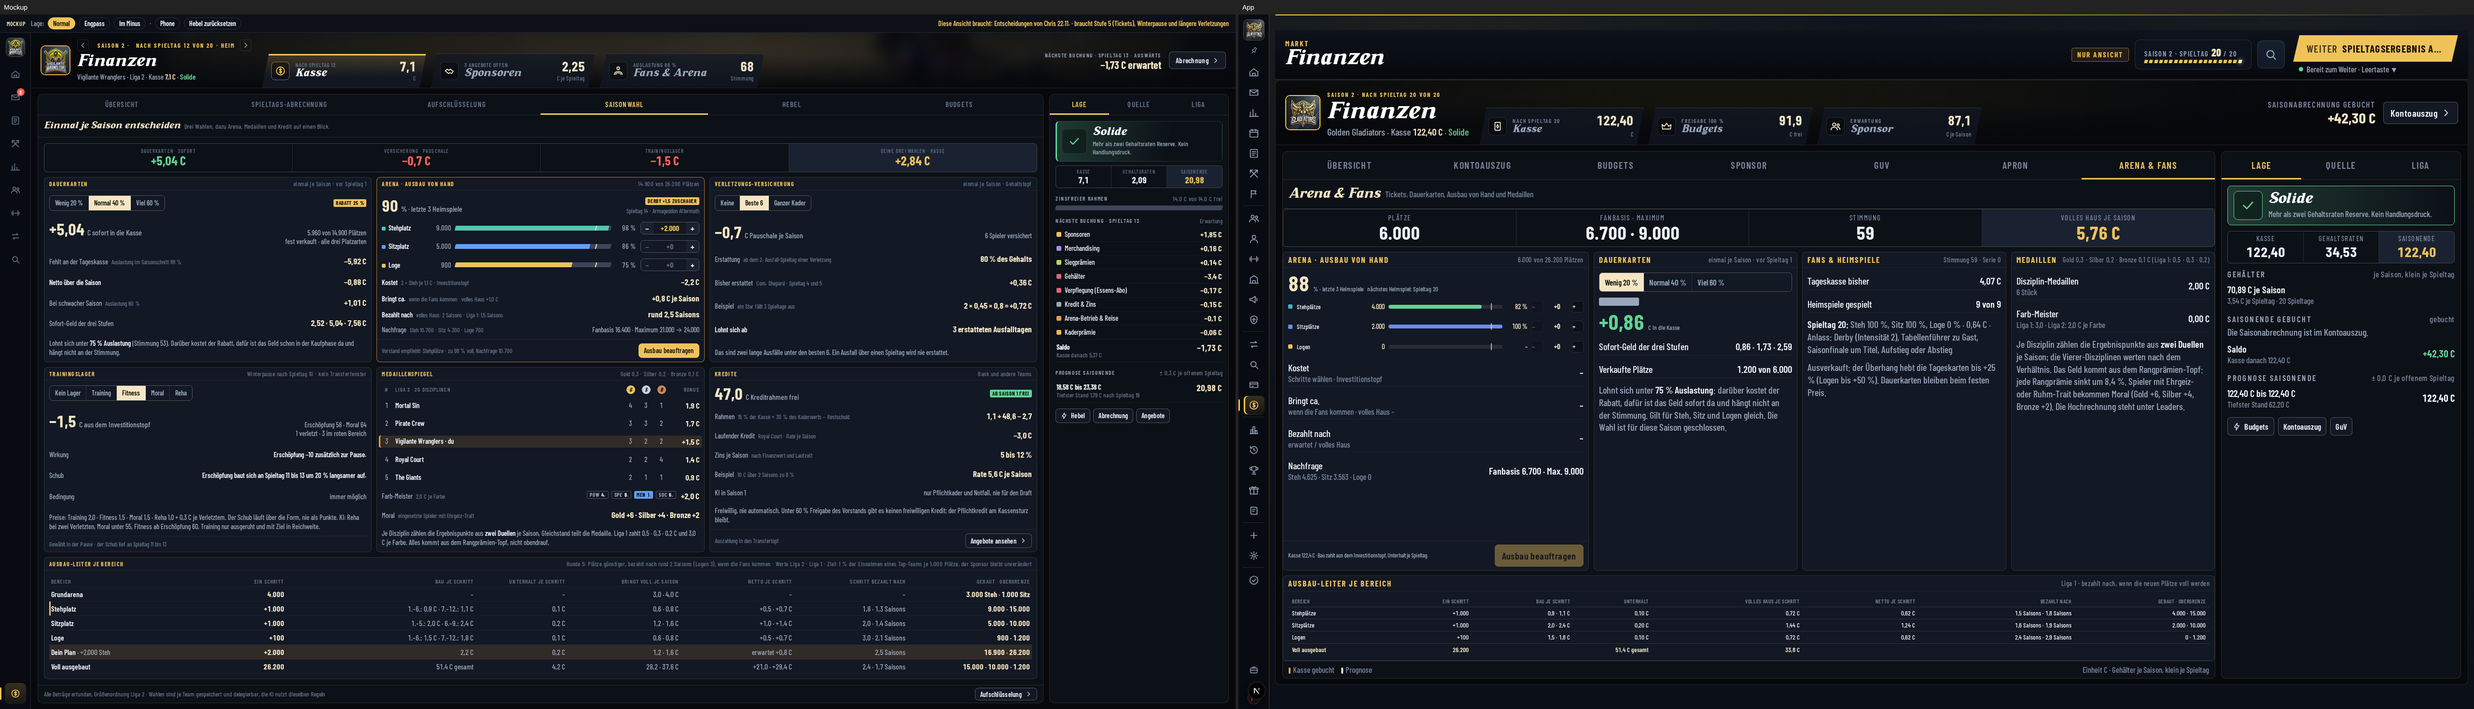
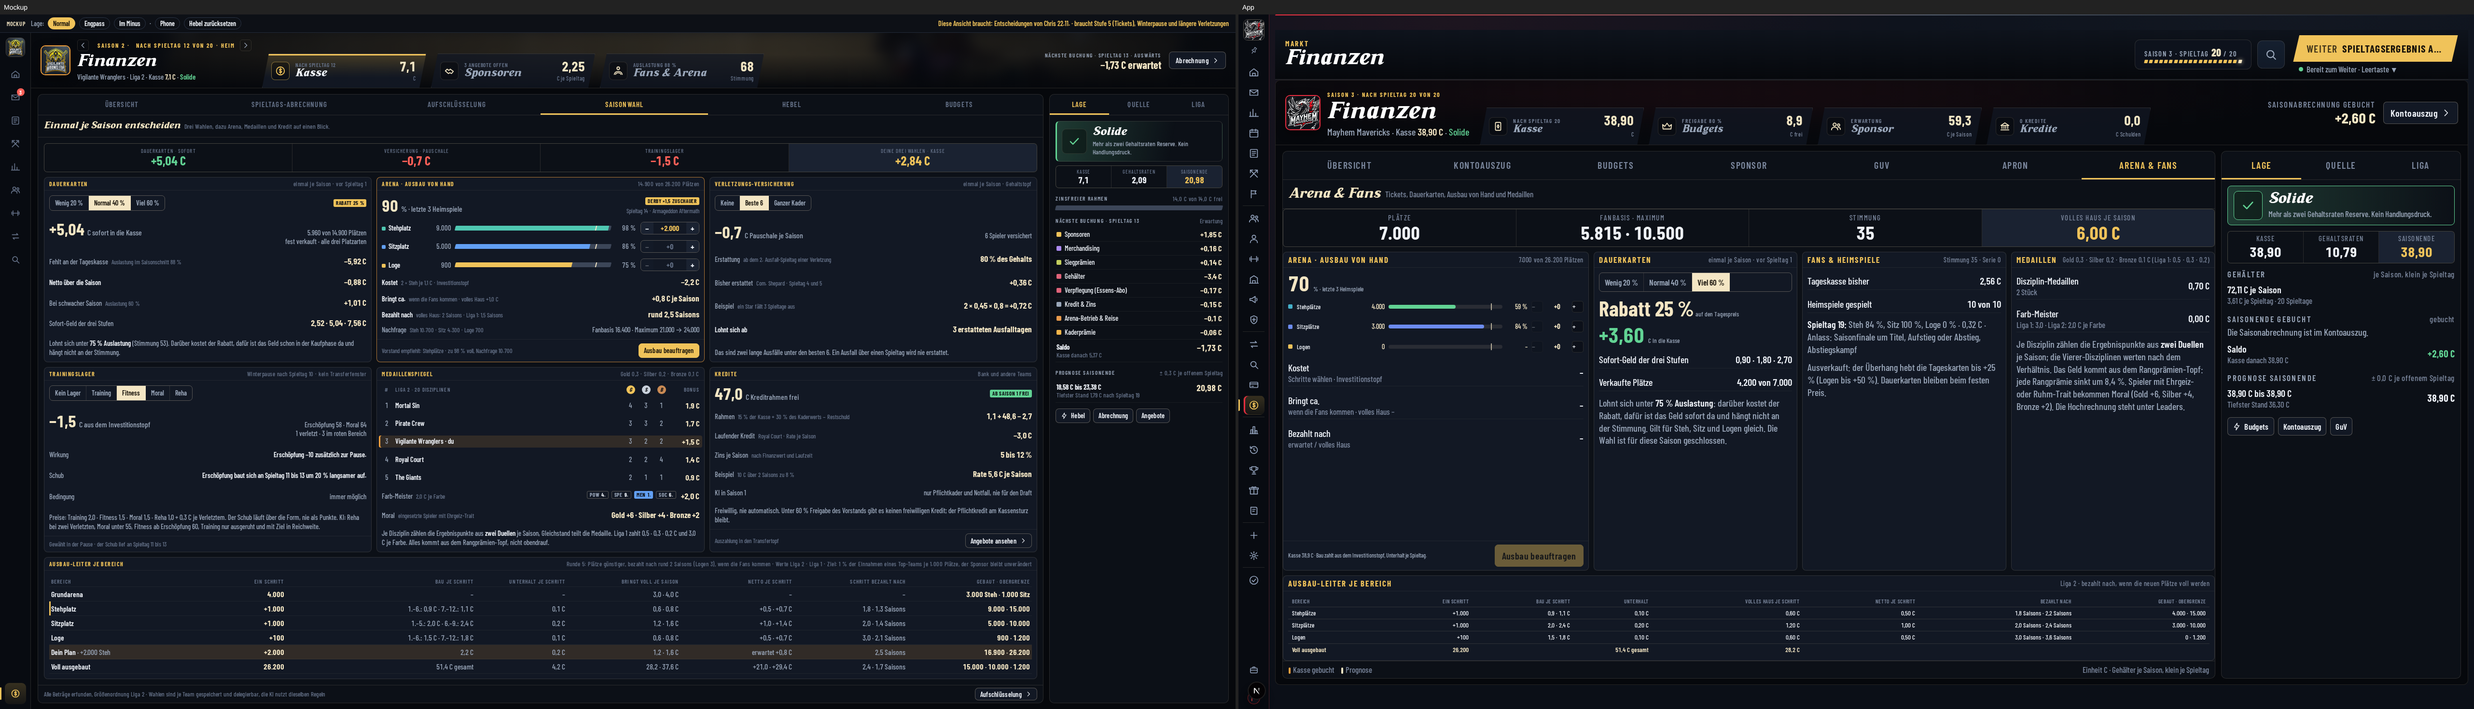
KI baut schneller (6 Schritte, 8 Saisons, 85 %, Vorausnachfrage, Fanbasis-Prognose), Karte Arena-Ausbau ohne abgeschnittene Zeile, Aufnahmen ohne Overlay, Messung 3 Saisons
Claude-Session: https://claude.ai/code/session_01UYLNtXkprKr1XK4c3X2xQq

diff --git a/lib/arena/arena-ki-bewertung.ts b/lib/arena/arena-ki-bewertung.ts
@@ -3,9 +3,10 @@
  * (`bauArenaAus`: Kasse, Obergrenzen, harte Vorstands-Freigabe aus dem Investitionstopf) und nur, wenn sich der Ausbau laut
  * "bringt ca." lohnt.
  *
- *   - nur in Bereichen mit Empfehlung: Schnitt der letzten drei Heimspiele bei 90 % oder mehr (mindestens zwei gespielt);
- *   - so viele Schritte, wie der Ueberhang der Nachfrage fuellt, hoechstens drei je Bereich und Saison;
- *   - nur, wenn "Erwartet" den Bau in hoechstens vier Saisons bezahlt (i.1; vorher sechs);
+ *   - nur in Bereichen mit Empfehlung: Schnitt der letzten drei Heimspiele bei 85 % oder mehr (vorher 90 %) (mindestens zwei gespielt);
+ *   - so viele Schritte, wie der Ueberhang der Nachfrage der NAECHSTEN Saison fuellt (Nachfrage x 1,22), hoechstens sechs je Bereich und Saison
+ *     (23.11. "KI baut schneller", vorher drei);
+ *   - nur, wenn "Erwartet" den Bau in hoechstens acht Saisons bezahlt (vorher vier, davor sechs);
  *   - Logen nur mit Erfolg und grossem Sponsor (Sponsor-Stufe und Tabellenplatz je mindestens die Haelfte);
  *   - gebaut wird nur, was nach der Ruecklage nach Finanzwert (`resolveKiRuecklageFuerTeam`) noch frei ist, wie beim Reha-Bau.
  *
@@ -15,14 +16,17 @@
 import type { GameState } from "@/lib/data/olyDataTypes";
 import { KI_REHA_RUECKLAGE_S1_FAKTOR } from "@/lib/ai/ki-schonung-reha-regeln";
 import { resolveKiRuecklageFuerTeam } from "@/lib/finance/ki-ruecklage";
-import { FANBASIS_WACHSTUM_SAISON, SCHRITT_GROESSE, ausbauVorschau, fanMaximum, maxSchritte, plaetzeNachSchritten, schritteGebaut } from "@/lib/arena/arena-modell";
+import { FANBASIS_WACHSTUM_SAISON, SCHRITT_GROESSE, ausbauVorschau, auslastungFan, fanMaximum, maxSchritte, plaetzeNachSchritten, schritteGebaut } from "@/lib/arena/arena-modell";
 import { arenaAktiv } from "@/lib/arena/arena-regel";
 import { holeArenaStand, istLiga1, letzteDreiSchnitt, ligaTabellenAnteil, sponsorStufen, heimspieleDerSaison } from "@/lib/arena/arena-stand";
 import { ARENA_BEREICHE, type ArenaBereich } from "@/lib/arena/arena-typen";
 
-export const KI_MAX_SCHRITTE_JE_BEREICH_UND_SAISON = 3;
-export const KI_MAX_BEZAHLT_SAISONS = 4;
-export const KI_EMPFEHLUNG_AUSLASTUNG = 0.9;
+/** KI baut schneller (Chris, 23.11.): vorher 3 Schritte je Bereich und Saison, Amortisation hoechstens 4 Saisons, Empfehlung ab 90 %. */
+export const KI_MAX_SCHRITTE_JE_BEREICH_UND_SAISON = 6;
+export const KI_MAX_BEZAHLT_SAISONS = 8;
+export const KI_EMPFEHLUNG_AUSLASTUNG = 0.85;
+/** Die KI baut auf die Nachfrage der naechsten Saison vor (Fanbasis waechst bei vollem Haus um hoechstens 22 %), nicht nur auf die von heute. */
+export const KI_VORAUS_FAKTOR = FANBASIS_WACHSTUM_SAISON;
 
 export type KiArenaEntscheidung = {
   /** Gewuenschte Schritte je Bereich (nur Bereiche mit Empfehlung und Amortisation). */
@@ -56,12 +60,14 @@ export function freiesGeldNachRuecklage(gameState: GameState, teamId: string): n
 }
 
 /**
- * Fanbasis nach dem Ausbau, wie die KI sie erwartet: haengt die Fanbasis am Fan-Maximum, wachsen die Fans nur mit mehr Plaetzen (h.3 "wer am
- * Maximum haengt, muss bauen"); die KI rechnet dann mit einer Saison Wachstum (hoechstens +22 %) bis zum neuen Maximum.
+ * Fanbasis in der naechsten Saison, wie die KI sie erwartet (23.11. "KI baut schneller"): ist das Haus voll (Steh + Sitz im Schnitt der letzten
+ * drei Heimspiele bei 85 % oder mehr), waechst die Fanbasis um hoechstens 22 % je Saison, aber nie ueber das Fan-Maximum der Plaetze. Wer am
+ * Maximum haengt, waechst nur mit mehr Plaetzen (h.3 "wer am Maximum haengt, muss bauen"); wer darunter liegt, braucht die Plaetze fuer das
+ * Wachstum von morgen. Ist das Haus nicht voll, bleibt die Fanbasis, wie sie ist.
  */
-function fanbasisNach(fanbasis: number, vorher: Parameters<typeof fanMaximum>[0], nachher: Parameters<typeof fanMaximum>[0]): number {
-  if (fanbasis < 0.95 * fanMaximum(vorher)) return fanbasis;
-  return Math.min(fanMaximum(nachher), fanbasis * FANBASIS_WACHSTUM_SAISON);
+function fanbasisPrognose(fanbasis: number, plaetze: Parameters<typeof fanMaximum>[0], hausVoll: boolean): number {
+  if (!hausVoll || fanbasis >= fanMaximum(plaetze)) return fanbasis;
+  return Math.min(fanMaximum(plaetze), fanbasis * FANBASIS_WACHSTUM_SAISON);
 }
 
 /** Bewertet den Ausbau fuer EIN Team; ohne zu schreiben. Fuer Tests und Messskripte exportiert. */
@@ -75,6 +81,7 @@ export function bewerteKiArena(gameState: GameState, teamId: string): KiArenaEnt
   const tabelle = ligaTabellenAnteil(gameState, teamId);
   const heim = heimspieleDerSaison(gameState, teamId);
   let frei = freiesGeldNachRuecklage(gameState, teamId);
+  const hausVoll = auslastungFan(stand.plaetze, schnitt.auslastung) >= KI_EMPFEHLUNG_AUSLASTUNG;
   const kandidaten: Array<{ b: ArenaBereich; schritte: number; bezahlt: number }> = [];
   for (const b of ARENA_BEREICHE) {
     if (stand.plaetze[b] <= 0 && b !== "loge") continue;
@@ -89,15 +96,15 @@ export function bewerteKiArena(gameState: GameState, teamId: string): KiArenaEnt
       continue;
     }
     // Ueberhang der Nachfrage in Schritten (mindestens einer, weil der Bereich voll ist); Logen fuellen sich anteilig, dort ein Schritt.
-    const ueberhang = b === "loge" ? 1 : Math.max(1, Math.floor((schnitt.nachfrage[b] - stand.plaetze[b]) / SCHRITT_GROESSE[b]));
-    // Schritte so weit zuruecknehmen, bis sie sich in vier Saisons bezahlen und das freie Geld reicht.
+    const ueberhang = b === "loge" ? 1 : Math.max(1, Math.floor((schnitt.nachfrage[b] * KI_VORAUS_FAKTOR - stand.plaetze[b]) / SCHRITT_GROESSE[b]));
+    // Schritte so weit zuruecknehmen, bis sie sich in acht Saisons bezahlen und das freie Geld reicht.
     for (let n = Math.min(ueberhang, grenze); n >= 1; n -= 1) {
-      const v = ausbauVorschau({ plaetze: stand.plaetze, schritte: { [b]: n }, fanbasis: stand.fanbasis, fanbasisNachher: fanbasisNach(stand.fanbasis, stand.plaetze, plaetzeNachSchritten(stand.plaetze, { [b]: n })), stimmung: stand.stimmung, liga1: istLiga1(gameState, teamId), sponsorStufe: sponsor, tabellenAnteil: tabelle, heimspiele: heim });
+      const v = ausbauVorschau({ plaetze: stand.plaetze, schritte: { [b]: n }, fanbasis: stand.fanbasis, fanbasisOhneAusbau: fanbasisPrognose(stand.fanbasis, stand.plaetze, hausVoll), fanbasisNachher: fanbasisPrognose(stand.fanbasis, plaetzeNachSchritten(stand.plaetze, { [b]: n }), hausVoll), stimmung: stand.stimmung, liga1: istLiga1(gameState, teamId), sponsorStufe: sponsor, tabellenAnteil: tabelle, heimspiele: heim });
       if (v.bezahltErwartet != null && v.bezahltErwartet <= KI_MAX_BEZAHLT_SAISONS) {
         kandidaten.push({ b, schritte: n, bezahlt: v.bezahltErwartet });
         break;
       }
-      if (n === 1) aus.abgelehnt.push({ bereich: b, grund: "zahlt sich nicht in vier Saisons aus" });
+      if (n === 1) aus.abgelehnt.push({ bereich: b, grund: `zahlt sich nicht in ${KI_MAX_BEZAHLT_SAISONS} Saisons aus` });
     }
   }
   kandidaten.sort((a, c) => a.bezahlt - c.bezahlt);

diff --git a/scripts/auswerte-arena-ki-saisons.ts b/scripts/auswerte-arena-ki-saisons.ts
@@ -1,0 +1,58 @@
+/**
+ * AUSWERTUNG KI-ARENA-AUSBAU UEBER MEHRERE SAISONS (23.11., docs/design/arena-tickets-medaillen-22-11.md Abschnitt "KI baut schneller").
+ *
+ * Eingabe: Laeufe von `scripts/miss-teamfinanzen-saison.ts --seasons 3` (32 KI-Teams). Ausgabe je Saison (Saisonende) und Lauf:
+ * Plaetze im Mittel und bei den Top-4 je Liga (Top-4 = die vier Teams mit der hoechsten Fanbasis der Liga), Ticket-Anteil an den
+ * Einnahmen (Top-4 und alle), Teams mit GuV >= 0, GuV-Abstand reichste 8 minus aermste 8 (nach Budget), Teams mit Kasse < 0.
+ *
+ * AUFRUF: npx tsx scripts/auswerte-arena-ki-saisons.ts <lauf1.json> [lauf2.json ...]
+ */
+import fs from "node:fs";
+
+const pfade = process.argv.slice(2);
+if (pfade.length === 0) throw new Error("Aufruf: auswerte-arena-ki-saisons.ts <lauf.json> ...");
+const r0 = (x: number) => Math.round(x);
+const r1 = (x: number) => Math.round(x * 10) / 10;
+const r2 = (x: number) => Math.round(x * 100) / 100;
+const mittel = (l: number[]) => (l.length ? l.reduce((a, b) => a + b, 0) / l.length : 0);
+type Posten = { key: string; amount: number };
+
+console.log("Saison | Lauf | Plaetze Ø L1 | L2 | Top-4 L1 | Top-4 L2 | Ticket-Anteil Top-4 | alle | GuV>=0 | GuV-Abstand r8-a8 | Kasse<0");
+const summe: Record<string, number[][]> = {};
+for (const pfad of pfade) {
+  const lauf = JSON.parse(fs.readFileSync(pfad, "utf8")) as { phasen: Record<string, any> };
+  for (const saison of ["s1", "s2", "s3"]) {
+    const ende = Object.entries(lauf.phasen).find(([k]) => k.startsWith(`${saison}_04`))?.[1];
+    if (!ende?.guv) continue;
+    const guv = ende.guv as Record<string, any>;
+    const snap = ende.snap as Record<string, any>;
+    const ids = Object.keys(guv);
+    const liga = (t: string) => snap[t]?.liga as string;
+    const plaetze = (t: string) => {
+      const p = snap[t]?.arena?.plaetze as { steh: number; sitz: number; loge: number } | undefined;
+      return p ? p.steh + p.sitz + p.loge : 0;
+    };
+    const fans = (t: string) => (snap[t]?.arena?.fanbasis as number) ?? 0;
+    const top4 = (l: string) => ids.filter((t) => liga(t) === l).sort((a, b) => fans(b) - fans(a)).slice(0, 4);
+    const t1 = top4("liga1");
+    const t2 = top4("liga2");
+    const posten = (t: string, k: string) => ((guv[t].guv.posten as Posten[]).find((p) => p.key === k)?.amount ?? 0) as number;
+    const einn = (t: string) => guv[t].guv.einnahmen as number;
+    const gv = (t: string) => guv[t].guv.guv as number;
+    const anteil = (l: string[]) => mittel(l.map((t) => (einn(t) > 0 ? posten(t, "tickets") / einn(t) : 0)));
+    const budget = (t: string) => snap[t]?.budget ?? 0;
+    const sortiert = [...ids].sort((a, b) => budget(b) - budget(a));
+    const abstand = mittel(sortiert.slice(0, 8).map(gv)) - mittel(sortiert.slice(-8).map(gv));
+    const zeile = [
+      r0(mittel(ids.filter((t) => liga(t) === "liga1").map(plaetze))),
+      r0(mittel(ids.filter((t) => liga(t) === "liga2").map(plaetze))),
+      r0(mittel(t1.map(plaetze))), r0(mittel(t2.map(plaetze))),
+      r2(anteil(t1)), r2(anteil(ids)),
+      ids.filter((t) => gv(t) >= 0).length, r1(abstand),
+      ids.filter((t) => (snap[t]?.cash ?? 0) < 0).length,
+    ];
+    (summe[saison] ??= []).push(zeile);
+    console.log(`${saison} | ${pfad.split("/").pop()!.replace(".json", "")} | ${zeile.join(" | ")}`);
+  }
+}
+for (const [s, z] of Object.entries(summe)) if (z.length > 1) console.log(`${s} | Mittel | ${z[0]!.map((_, i) => r2(mittel(z.map((x) => x[i]!)))).join(" | ")}`);

diff --git a/scripts/screenshot-arena-bau.ts b/scripts/screenshot-arena-bau.ts
@@ -14,6 +14,7 @@ import { setTimeout as delay } from "node:timers/promises";
 import { chromium, type Browser, type Page } from "@playwright/test";
 
 import { stempleFinanzenJeSpieltagBeimAnlegen } from "@/lib/finance/finanzen-je-spieltag";
+import { buildTeamControlSettingsMap } from "@/lib/foundation/team-control-settings";
 import { createPersistenceService } from "@/lib/persistence/persistence-service";
 
 const PORT = process.env.SCREENSHOT_PORT ?? "3216";
@@ -39,7 +40,16 @@ async function bereiteKopieVor(): Promise<{ saveId: string; teamId: string }> {
   if (!gewaehlt) throw new Error(`Kein Spielstand mit Team ${TEAM} im Abbild.`);
   let g = gewaehlt.gameState;
   // Mitte der Saison zeigen: die Phase auf "season_active" (nur Anzeige der Kopie), das Team als Mensch-Team mit eigenem Besitz.
-  g = { ...g, gamePhase: "season_active", teams: g.teams.map((t) => (t.teamId === TEAM ? { ...t, humanControlled: true } : t)) };
+  // Das Team gehoert dem Dev-Benutzer (Besitz "user_local", Modus manuell): sonst lehnt der Server die Schreibaufrufe der Seite (Flow-Schritt) mit 403 ab,
+  // und das Next.js-Overlay zeigt "1 Issue" im Bild.
+  const einst = buildTeamControlSettingsMap(g.teams, g.seasonState.teamControlSettings);
+  einst[TEAM] = { ...einst[TEAM]!, controlMode: "manual", ownerId: "user_local", ownerSlot: "user", displayLabel: "Chris" };
+  g = {
+    ...g,
+    gamePhase: "season_active",
+    teams: g.teams.map((t) => (t.teamId === TEAM ? { ...t, humanControlled: true } : t)),
+    seasonState: { ...g.seasonState, teamControlSettings: einst },
+  };
   persistence.saveSingleplayerState(gewaehlt.saveId, g);
   console.log(`[aufnahme] Save ${gewaehlt.saveId}, Saison ${g.season.id}, Spieltag ${g.season.currentMatchday}, Arena an`);
   return { saveId: gewaehlt.saveId, teamId: TEAM };
@@ -97,6 +107,7 @@ async function main() {
           const page = await ctx.newPage();
           const fehler: string[] = [];
           page.on("pageerror", (e) => fehler.push(String(e)));
+          page.on("console", (m) => { if (m.type() === "error" || m.type() === "warning") console.log(`[konsole ${m.type()}] ${datei}: ${m.text().slice(0, 600)}`); });
           const url = new URL("/foundation", BASE_URL);
           url.searchParams.set("view", ansicht);
           url.searchParams.set("saveId", saveId);

diff --git a/app/foundation/finances/ArenaAnsicht.tsx b/app/foundation/finances/ArenaAnsicht.tsx
@@ -181,7 +181,6 @@ export default function ArenaAnsicht({ gameState, teamId, onAktion, kannSchreibe
             <div className="fin-rek"><span>Kostet <small>{ARENA_BEREICHE.filter((b) => plan[b] > 0).map((b) => `${plan[b]} × ${b === "steh" ? "Steh" : b === "sitz" ? "Sitz" : "Loge"}`).join(" · ") || "Schritte wählen · Investitionstopf"}</small></span><b className="bc-t minus">{geplant ? `−${zahl(vorschau.kosten)} C` : "–"}</b></div>
             <div className="fin-rek"><span>Bringt ca. <small>wenn die Fans kommen · volles Haus {geplant ? `+${zahl(vorschau.nettoVoll)} C` : "–"}</small></span><b className="bc-t plus">{geplant ? `${vorschau.nettoErwartet >= 0 ? "+" : "−"}${zahl(Math.abs(vorschau.nettoErwartet))} C je Saison` : "–"}</b></div>
             <div className="fin-rek"><span>Bezahlt nach <small>{geplant ? `volles Haus ${saisons(vorschau.bezahltVoll)}` : "erwartet / volles Haus"}</small></span><b className="bc-t">{geplant ? (vorschau.bezahltErwartet == null ? "nie" : `rund ${zahl(vorschau.bezahltErwartet, 1)} Saisons`) : "–"}</b></div>
-            <div className="fin-rek arena-nachfrage"><span>Nachfrage <small>Steh {ganz(nachfrageSchnitt.steh)} · Sitz {ganz(nachfrageSchnitt.sitz)} · Loge {ganz(nachfrageSchnitt.loge)}</small></span><b className="bc-t">Fanbasis {ganz(stand.fanbasis)} · Max. {ganz(fanMaximum(stand.plaetze))}{geplant ? ` → ${ganz(vorschau.fanMaximumNachher)}` : ""}</b></div>
           </div>
           <div className="fin-fuss arena-fuss">
             <span className="fin-txt" data-testid="arena-hinweis">

diff --git a/lib/arena/arena-modell.ts b/lib/arena/arena-modell.ts
@@ -327,11 +327,13 @@ export function ausbauVorschau(input: {
   heimspiele?: number;
   /** Fanbasis NACH dem Ausbau (Wachstum bis zum neuen Fan-Maximum); ohne Angabe die von heute. Nur die KI rechnet damit. */
   fanbasisNachher?: number;
+  /** Fanbasis OHNE den Ausbau (Wachstum bis zum heutigen Fan-Maximum), damit der Gewinn nur den Ausbau zaehlt; ohne Angabe die von heute. Nur die KI rechnet damit. */
+  fanbasisOhneAusbau?: number;
 }): AusbauVorschau {
   const n = input.heimspiele ?? HEIMSPIELE_REFERENZ;
   const nachher = plaetzeNachSchritten(input.plaetze, input.schritte);
   const basis = { fanbasis: input.fanbasis, stimmung: input.stimmung, liga1: input.liga1, sponsorStufe: input.sponsorStufe, tabellenAnteil: input.tabellenAnteil };
-  const alt = rechneHeimspiel({ ...basis, plaetze: input.plaetze });
+  const alt = rechneHeimspiel({ ...basis, fanbasis: input.fanbasisOhneAusbau ?? input.fanbasis, plaetze: input.plaetze });
   const neu = rechneHeimspiel({ ...basis, fanbasis: input.fanbasisNachher ?? input.fanbasis, plaetze: nachher });
   const zeilen: AusbauZeile[] = ARENA_BEREICHE.map((b) => {
     const gewuenscht = Math.max(0, Math.round(input.schritte[b] ?? 0));

diff --git a/app/foundation/finances/arena-ansicht.css b/app/foundation/finances/arena-ansicht.css
@@ -32,5 +32,4 @@
 .arena-tab tr.is-su td { color: var(--bc-creme); font-weight: 600; }
 @media (max-width: 1500px) { .arena-zeile { grid-template-columns: repeat(2, minmax(0, 1fr)); } }
 
-/* Nachfrage und Fan-Maximum stehen ab 1250 px Hoehe in der Karte, darunter im Tooltip des Balkens (wie im Mockup). */
-@media (max-height: 1250px) { .arena-nachfrage { display: none; } }
+/* Nachfrage steht im Tooltip des Balkens, Fanbasis und Maximum im Kopf der Seite; die Karte braucht keine eigene Zeile dafuer. */

diff --git a/docs/design/arena-tickets-medaillen-22-11.md b/docs/design/arena-tickets-medaillen-22-11.md
@@ -79,13 +79,58 @@ Lesart:
   rechnerisch erreichbar (volle Arena Liga 1 37,6 C gegen rund 100 C Sponsor = 27 %), nach zwei Saisons aber nicht erreicht (Ticket-Anteil der Spitze 4 %), weil die Fanbasis nur 22 % je Saison wächst und die KI höchstens drei Schritte je Bereich baut.
 - Ticket-Einnahmen Liga 1 : Liga 2 = 1,45 (Preisfaktor 4/3 plus größere Fanbasis); der absolute Abstand beträgt 1,5 C je Team. Die Einnahmen-Schere ändert sich damit nicht nennenswert
   (1,19 bis 1,40 in Saison 2, Streuung der Saat größer als der Effekt). Die Konzept-Zahl „Steh und Sitz zahlen sich in Liga 2 in 1,5 bis 2,5 Saisons“ ist im Test geprüft.
-- Offen: Messung über mehr als zwei Saisons und ein A/B-Lauf ohne Arena für die Schere (nicht gemessen).
+- Messung über drei Saisons: siehe Abschnitt „KI baut schneller“. Offen: ein A/B-Lauf ohne Arena für die Schere (nicht gemessen).
+
+## KI baut schneller (Chris, 23.11.) und Messung über drei Saisons
+
+Änderung in `lib/arena/arena-ki-bewertung.ts` (alt → neu):
+
+| Regel | alt | neu |
+|---|---|---|
+| Schritte je Bereich und Saison (`KI_MAX_SCHRITTE_JE_BEREICH_UND_SAISON`) | 3 | 6 |
+| Amortisation mit „Erwartet“ (`KI_MAX_BEZAHLT_SAISONS`) | höchstens 4 Saisons | höchstens 8 |
+| Empfehlung ab Auslastung der letzten drei Heimspiele (`KI_EMPFEHLUNG_AUSLASTUNG`) | 90 % | 85 % |
+| Schritte nach Überhang der Nachfrage | von heute | der nächsten Saison (× `KI_VORAUS_FAKTOR` = 1,22) |
+| Fanbasis in der Bewertung | nur am Fan-Maximum +22 % | bei vollem Haus (Steh + Sitz ≥ 85 %) immer bis +22 %, gedeckelt am Fan-Maximum der Plätze; der Gewinn zählt nur den Ausbau (`fanbasisOhneAusbau` in `ausbauVorschau`, die Seite des Menschen rechnet unverändert) |
+
+Dieselben Regeln gelten für Mensch und KI: `bauArenaAus` prüft Kasse, Obergrenzen und die harte Vorstands-Freigabe aus dem Investitionstopf, die Rücklage nach Finanzwert bleibt
+(`freiesGeldNachRuecklage`). Kein Team baut sich in die Pleite: ein Schritt kostet 0,9 bis 2,4 C bei 0,1 bis 0,2 C Unterhalt.
+
+Messung: 32 KI-Teams von Anfang an, `scripts/auswerte-arena-ki-saisons.ts` über Läufe von `scripts/miss-teamfinanzen-saison.ts --seasons 3`. Top-4 = die vier Teams der Liga mit der höchsten Fanbasis.
+„alt“ = Stand vor der Änderung, „Stufe 1“ = nur Grenzen (6 Schritte, 8 Saisons, 85 %, Vorausnachfrage), „neu“ = zusätzlich die Fanbasis-Prognose.
+Die Messung ist **kleiner als verlangt**: ein Lauf je Stand; „neu“ liegt nur für zwei Saisons vor (der Lauf ist in Saison 3 vom Speicherdruck anderer Prozesse abgebrochen worden, der Wiederholungslauf an einer vollen Platte).
+
+| Saison | Stand | Plätze Ø Liga 1 / 2 | Plätze Top-4 Liga 1 / 2 | Ticket-Anteil Top-4 / alle | Teams GuV ≥ 0 | GuV-Abstand reich 8 − arm 8 | Kasse < 0 |
+|---|---|---:|---:|---:|---:|---:|---:|
+| 1 | alt | 5.000 / 4.313 | 5.500 / 5.250 | 5 % / 4 % | 26 | 7,5 | 0 |
+| 1 | Stufe 1 | 5.250 / 4.688 | 5.500 / 6.500 | 5 % / 4 % | 26 | 17,6 | 0 |
+| 1 | neu | 5.438 / 5.250 | 6.000 / 6.000 | 7 % / 5 % | 23 | −1,2 | 0 |
+| 2 | alt | 5.375 / 4.625 | 5.250 / 5.500 | 5 % / 5 % | 30 | −7,5 | 0 |
+| 2 | Stufe 1 | 5.250 / 4.938 | 5.250 / 5.500 | 6 % / 5 % | 28 | −9,5 | 1 |
+| 2 | neu | 5.938 / 5.313 | 6.250 / 6.000 | 6 % / 5 % | 29 | 2,4 | 0 |
+| 3 | alt | 6.000 / 5.250 | 6.750 / 6.250 | 6 % / 5 % | 30 | 0,4 | 1 |
+| 3 | Stufe 1 | 5.438 / 5.250 | 6.500 / 6.000 | 6 % / 5 % | 31 | 9,6 | 1 |
+
+Lesart, ehrlich:
+- Die Lockerung bringt etwas (Saison 2: Liga 1 im Mittel 5.375 → 5.938, Top-4 5.250 → 6.250), aber **nicht** die Größenordnung des Richtwerts (Top-4 Liga 1 nach drei Saisons 12.000 bis 18.000 Plätze).
+  Der Richtwert ist mit dem heutigen Fan-Modell nicht erreichbar, auch nicht mit einer KI, die beliebig schnell baut:
+  die Fanbasis wächst nur bei mindestens 90 % Auslastung mit +2 % je Heimspiel (höchstens +22 % je Saison) und wuchs in der Messung bei den Spitzenteams um rund 5 bis 12 % je Saison
+  (6.700 → 7.000 → 8.500 in drei Saisons). Die Nachfrage beträgt nur etwa das 0,7-fache der Fanbasis (Stimmung 40 bis 60). Wer mehr Plätze baut, als die Nachfrage füllt, fällt unter 90 %,
+  und die Fanbasis wächst nicht mehr. Plätze folgen deshalb der Fanbasis, nicht umgekehrt: für 12.000 Plätze wären rund 15.000 Fans nötig.
+- Ticket-Anteil der Spitze bleibt bei 5 bis 7 %, das Konzeptziel „volle Top-Arena ≈ ein Viertel der Einnahmen“ ist damit nach drei Saisons nicht erreicht.
+- Wer bauen will, scheiterte vor allem an „zahlt sich nicht aus“ (Messlog: Sitzplätze, Stufe 1), weil bei Fanbasis unter dem Maximum zusätzliche Plätze rechnerisch nichts bringen; die Prognose (Fanbasis wächst bis zum Maximum) behebt das.
+- Pleiten: höchstens ein Team mit negativer Kasse am Saisonende, in allen Ständen gleich; der Anteil Teams mit GuV ≥ 0 liegt bei 23 bis 31 (Streuung der Saat).
+- **Entscheidung für Chris/PM:** soll die Top-Arena nach zwei bis drei Saisons wirklich bei 12.000 bis 18.000 Plätzen stehen, muss das Fan-Modell angefasst werden (Wachstum je Heimspiel, Schwelle 90 %,
+  Nachfrage je Fan), nicht die KI. Das ist eine Änderung der Wirtschaftsmechanik und hier bewusst nicht ohne Freigabe gemacht.
 
 ## Prüfungen
 
 - `npx tsc -p tsconfig.check.json --noEmit` sauber.
 - vitest `tests/finan*`, `guv-*`, `spieltag*`, `saisonende*`, `gebaeude*`, `stadion*`, `sponsor*`, `morale*`, `leaders*`, `marketing*`: 837 grün (2 Dateien übersprungen wie vorher); `tests/arena-tickets-medaillen.test.ts` 22 grün.
 - Wertungs-Fingerabdruck: **GESAMT fe1dc086d68d** (unverändert; Arena und Medaillen wirken nur auf Geld und Moral).
+
+- Nach Merge mit main und KI-Änderung (23.11.): vitest `arena-tickets-medaillen*`, `kredit*`, `entwicklung*`, `finan*`, `guv-*`, `spieltag*`, `saisonende*`, `new-game*`, `save-repository-cold*`, `preseason*`, `foundation-nav*`, `foundation-icon-schiene*`, `marketing-bau*`, `sponsor*`: 997 grün, 22 übersprungen; Fingerabdruck GESAMT fe1dc086d68d.
+- Aufnahmen 23.11. neu: das Overlay „1 Issue“ kam aus einem 403 der Seite beim Speichern des Flow-Schritts (das Aufnahme-Team gehörte nicht dem Dev-Benutzer); `scripts/screenshot-arena-bau.ts` setzt jetzt Besitz `user_local`, Modus manuell und loggt Konsolenfehler. Die Zeile „Nachfrage“ am Fuß der Karte „Arena · Ausbau von Hand“ (abgeschnitten) ist entfallen (Nachfrage steht im Tooltip des Balkens, Fanbasis/Maximum im Kopf).
 
 ## Abgleich Mockup – App (Aufnahmen: `docs/design/arena-tickets-medaillen-22-11/`)
 
